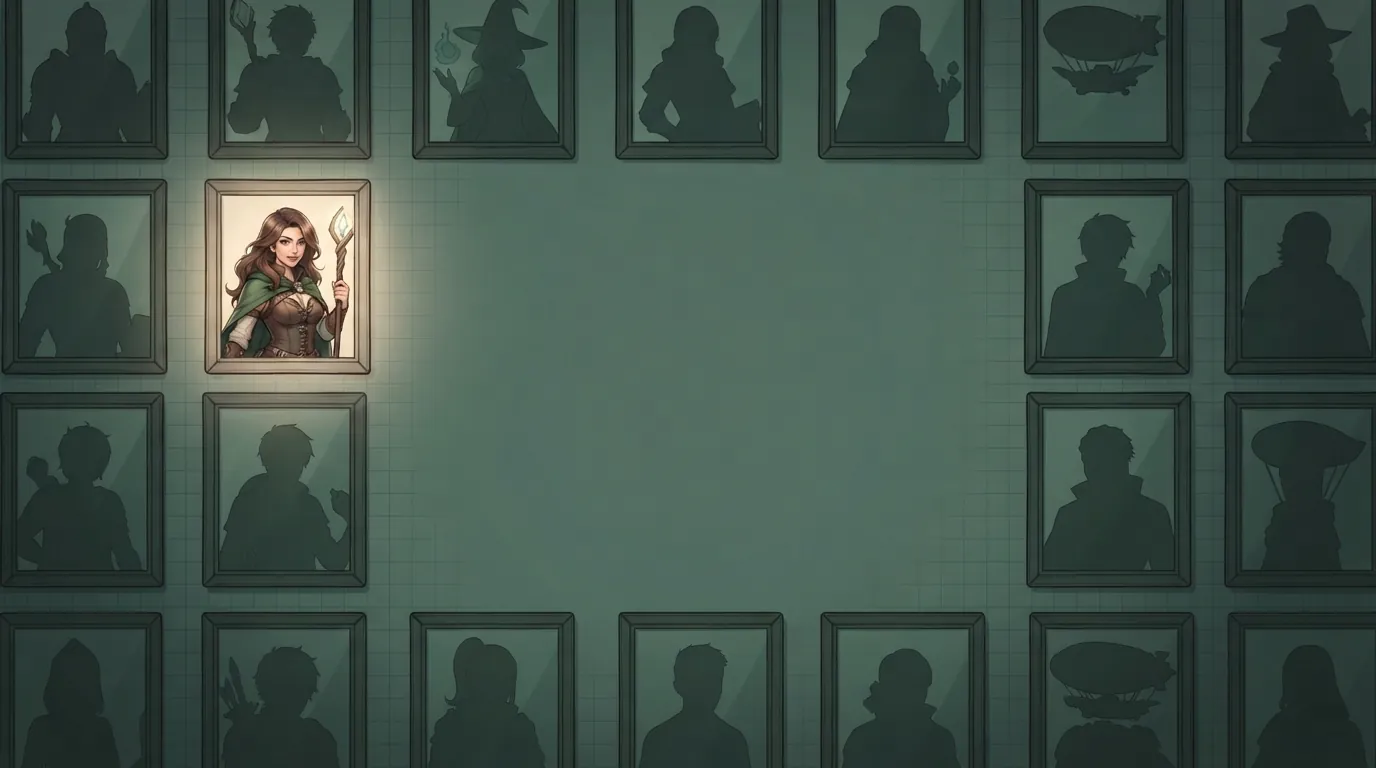
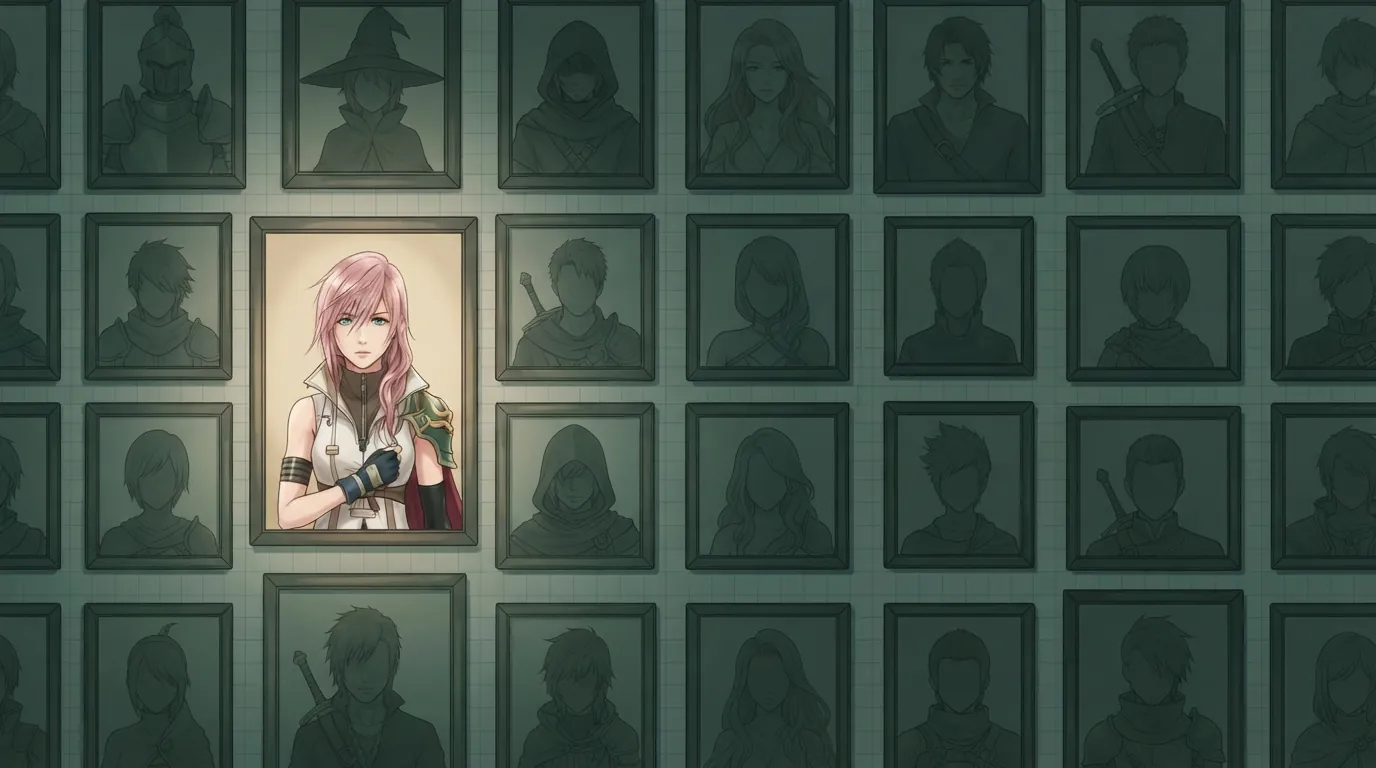
Feature set 155.
Tile artwork covers the whole card, and two of the pictures are rebuilt.

- The picture is full-bleed now, which flips the treatment: the card is dark and
  its copy is light. There is no veil strong enough to carry black text over a
  full-bleed photograph without becoming the wash this started as. The scrim
  deepens downward instead — 6% at the top, 94% under the text — so four sources
  with very different brightness all land near-black under the copy and one set
  of text colours works across the set.
- Text is bottom-aligned and the descriptions are one line each, because every
  line of copy is a line of artwork covered up. The empty art slot goes with them:
  it existed to hold a logo, and 88px reserved for nothing is 88px of picture
  hidden.
- The four accents revert to their original brighter values. They were darkened
  for a light card in set 153; the card is dark again.
- Triple Triad now shows the real cards. Nine level-10 FFVIII faces from the
  catalogue's own cards/{id}.webp, composited onto a generated bare table — a
  backdrop for the card game should be showing the cards the API serves. Each is
  dimmed to the felt sampled underneath it, which is what makes the paste sit in
  the picture rather than on top of it, and they are upscaled with NEAREST
  because smoothing PSX-era sprite art turns crisp pixels into mush.
- Kupodle is regenerated: Lightning is the revealed portrait, and every frame now
[…]

diff --git a/src/MoogleAPI.Web/wwwroot/games/index.html b/src/MoogleAPI.Web/wwwroot/games/index.html
@@ -61,44 +61,52 @@
     /* Each tile carries its own accent AND its own artwork through custom properties, so one
        rule styles four games and adding a fifth is two values and a link.
      *
-     * The veil is the whole trick, and it is shaped like the card rather than spread evenly. A
-     * flat veil strong enough to carry black body text also washed the picture out to a tint, so
-     * instead it is nearly clear across the art slot — 22%, enough to knock back the contrast of
-     * four pictures with wildly different brightness — and then closes hard to 93% right at the
-     * boundary where the text block begins, holding at 96% to the bottom. That reads as a card
-     * with a header image, which is what it is.
+     * The picture covers the whole card, which means the card is dark and its text is light —
+     * there is no veil strong enough to carry black copy over a full-bleed photograph without
+     * becoming the wash this replaced. The scrim instead deepens downward: 6% at the top, where
+     * the picture is the point, closing to 94% under the text block at the bottom. Four sources
+     * with wildly different brightness (Kupo Climb is a blue sky, Battle Square a night arena)
+     * all end up near-black under the copy, which is what lets one set of text colours work
+     * across the set.
      *
-     * The numbers are measured, not guessed. Composited over the real crops and sampled at both
-     * the darkest and the lightest pixel in each band of text: the description sits at 4.6:1
-     * against --muted, and the name at 5.6:1 against --text even if the tile is short enough to
-     * pull it up into the ramp. If the veil moves, re-measure rather than eyeballing it — a first
-     * attempt at this failed on all four tiles and looked fine.
+     * The text is bottom-aligned, so a taller tile grows its picture rather than its copy. That
+     * is also why the descriptions are one line each: every line of copy is a line of artwork
+     * covered up.
      *
-     * Default theme only. FFIV mode replaces the whole background with its window gradient
-     * further down, using the shorthand, which drops the image with it. */
+     * Measured, not guessed — composited over the real crops and sampled at the darkest and
+     * lightest pixel of each band of text. Worst case is the Battle Square footer link at 5.2:1;
+     * the name is 6.8:1 even when a wrapped description pushes it up. Re-measure if the scrim
+     * moves. Two earlier attempts at this looked fine and failed.
+     *
+     * background-color is dark rather than --surface so a tile with no artwork is still a dark
+     * card with readable light text, instead of light text on silver.
+     *
+     * Default theme only: FFIV mode replaces the background wholesale further down. */
     .tile {
       --tile: var(--accent);
       --tile-bg: none;
-      --veil: linear-gradient(180deg,
-        rgba(236, 239, 243, 0.22) 0%,
-        rgba(236, 239, 243, 0.26) 35%,
-        rgba(236, 239, 243, 0.93) 45%,
-        rgba(236, 239, 243, 0.96) 100%);
+      --scrim: linear-gradient(180deg,
+        rgba(9, 11, 15, 0.06) 0%,
+        rgba(9, 11, 15, 0.16) 34%,
+        rgba(9, 11, 15, 0.74) 50%,
+        rgba(9, 11, 15, 0.90) 62%,
+        rgba(9, 11, 15, 0.94) 100%);
       position: relative;
       display: flex;
       flex-direction: column;
+      min-height: 15.5rem;
       overflow: hidden;
       padding: 1.4rem 1.3rem 1.25rem;
-      background-color: var(--surface);
-      background-image: var(--veil), var(--tile-bg);
+      background-color: #12161c;
+      background-image: var(--scrim), var(--tile-bg);
       background-size: cover;
       background-position: center;
       background-repeat: no-repeat;
       border: 1px solid var(--border);
       border-radius: var(--radius);
-      color: inherit;
+      color: #ffffff;
       text-decoration: none;
-      box-shadow: 0 1px 1px rgb(20 22 26 / 0.03), 0 4px 12px rgb(20 22 26 / 0.04);
+      box-shadow: 0 1px 1px rgb(20 22 26 / 0.06), 0 6px 18px rgb(20 22 26 / 0.10);
       transition: border-color 0.18s, transform 0.18s, box-shadow 0.18s;
     }
     .tile::before {
@@ -107,15 +115,16 @@
       inset: 0 0 auto 0;
       height: 3px;
       background: var(--tile);
+      z-index: 2;
     }
-    /* The wash used to be the only thing carrying the game's colour at rest. The artwork does
-       that now, so this is a hover cue and nothing else — invisible until then, which also keeps
-       it out of the contrast budget the veil above was measured against. */
+    /* A hover cue and nothing else — the artwork carries the game's colour at rest, and keeping
+       this invisible until hover keeps it out of the contrast budget the scrim was measured
+       against. */
     .tile::after {
       content: '';
       position: absolute;
       inset: 0;
-      background: radial-gradient(120% 80% at 50% 0%, color-mix(in srgb, var(--tile) 16%, transparent) 0%, transparent 70%);
+      background: radial-gradient(120% 80% at 50% 0%, color-mix(in srgb, var(--tile) 20%, transparent) 0%, transparent 70%);
       pointer-events: none;
       opacity: 0;
       transition: opacity 0.18s;
@@ -123,7 +132,7 @@
     .tile:hover, .tile:focus-visible {
       border-color: var(--tile);
       transform: translateY(-3px);
-      box-shadow: 0 10px 26px rgb(20 22 26 / 0.13);
+      box-shadow: 0 12px 28px rgb(20 22 26 / 0.22);
     }
     .tile:hover::after, .tile:focus-visible::after { opacity: 0.55; }
 
@@ -144,7 +153,7 @@
       font-size: 1.55rem;
       font-weight: 700;
       letter-spacing: 0.06em;
-      color: var(--tile);
+      color: #ffffff;
       text-align: center;
       line-height: 1.15;
     }
@@ -154,9 +163,17 @@
       font-size: 1.15rem;
       font-weight: 700;
       letter-spacing: 0.04em;
+      margin-top: auto;
       margin-bottom: 0.35rem;
+      color: #ffffff;
+      text-shadow: 0 1px 3px rgba(0, 0, 0, 0.55);
     }
-    .tile-desc { font-size: 0.86rem; color: var(--muted); line-height: 1.55; flex: 1; }
+    .tile-desc {
+      font-size: 0.86rem;
+      color: #dfe4ea;
+      line-height: 1.55;
+      text-shadow: 0 1px 3px rgba(0, 0, 0, 0.5);
+    }
 
     .tile-foot {
       display: flex;
@@ -170,8 +187,8 @@
       font-size: 0.66rem;
       text-transform: uppercase;
       letter-spacing: 0.1em;
-      color: var(--muted);
-      border: 1px solid var(--border);
+      color: #c3ccd6;
+      border: 1px solid rgba(255, 255, 255, 0.32);
       border-radius: 999px;
       padding: 0.18rem 0.6rem;
     }
@@ -243,6 +260,9 @@
        text is white anyway; the hue survives on the bar above it. */
     .ff-mode .tile-wordmark { font-size: 0.85rem; line-height: 1.5; color: #ffffff; }
     .ff-mode .tile-go { color: #f8d030; }
+    .ff-mode .tile-name,
+    .ff-mode .tile-desc { text-shadow: 1px 1px 0 #0a1450; }
+    .ff-mode .tile-desc { color: #dfe8ff; }
     .ff-mode .tile-tag { border-color: rgba(223, 232, 255, 0.5); }
     .ff-mode .page-sub,
     .ff-mode .tile-desc,
@@ -268,14 +288,13 @@
     </p>
 
     <div class="tiles">
-      <a class="tile" href="/kupodle" style="--tile:#26684a; --tile-bg:url('/assets/backgrounds/tiles/kupodle.webp')">
+      <a class="tile" href="/kupodle" style="--tile:#7cc4a4; --tile-bg:url('/assets/backgrounds/tiles/kupodle.webp')">
         <div class="tile-art" data-wordmark="Kupodle">
           <img src="/assets/logos/kupodle.png" alt="" />
         </div>
         <div class="tile-name">Kupodle</div>
         <div class="tile-desc">
-          Guess the daily Final Fantasy character in six tries. Every guess narrows it by game,
-          role, race, hometown and release year.
+          Guess the daily character in six tries.
         </div>
         <div class="tile-foot">
           <span class="tile-tag">Daily · Puzzle</span>
@@ -283,14 +302,13 @@
         </div>
       </a>
 
-      <a class="tile" href="/triple-triad" style="--tile:#20537a; --tile-bg:url('/assets/backgrounds/tiles/triple-triad.webp')">
+      <a class="tile" href="/triple-triad" style="--tile:#5b9bd5; --tile-bg:url('/assets/backgrounds/tiles/triple-triad.webp')">
         <div class="tile-art" data-wordmark="Triple Triad">
           <img src="/assets/logos/triple-triad.png" alt="" />
         </div>
         <div class="tile-name">Triple Triad</div>
         <div class="tile-desc">
-          The Final Fantasy VIII card game, with all 110 authentic cards and their real corner
-          values. Three-by-three, capture by the numbers.
+          All 110 authentic FFVIII cards, three by three.
         </div>
         <div class="tile-foot">
           <span class="tile-tag">Cards · Versus</span>
@@ -298,14 +316,13 @@
         </div>
       </a>
 
-      <a class="tile" href="/kupo-climb" style="--tile:#75481a; --tile-bg:url('/assets/backgrounds/tiles/kupo-climb.webp')">
+      <a class="tile" href="/kupo-climb" style="--tile:#c98b4b; --tile-bg:url('/assets/backgrounds/tiles/kupo-climb.webp')">
         <div class="tile-art" data-wordmark="Kupo Climb">
           <img src="/assets/logos/kupo-climb.png" alt="" />
         </div>
         <div class="tile-name">Kupo Climb</div>
         <div class="tile-desc">
-          Take one monster up through the series, a game per rung. Beat all three battles and it
-          evolves into that game's version of itself.
+          Take one monster up through the series, a game per rung.
         </div>
         <div class="tile-foot">
           <span class="tile-tag">Daily · Battle</span>
@@ -313,14 +330,13 @@
         </div>
       </a>
 
-      <a class="tile" href="/battle-square" style="--tile:#5e357d; --tile-bg:url('/assets/backgrounds/tiles/battle-square.webp')">
+      <a class="tile" href="/battle-square" style="--tile:#b07cc6; --tile-bg:url('/assets/backgrounds/tiles/battle-square.webp')">
         <div class="tile-art" data-wordmark="Battle Square">
           <img src="/assets/logos/battle-square.png" alt="" />
         </div>
         <div class="tile-name">Battle Square</div>
         <div class="tile-desc">
-          The Gold Saucer's arena, opened to the whole series. One character against eight
-          straight waves — and the slots take something away between each.
+          One character against eight straight waves of monsters.
         </div>
         <div class="tile-foot">
           <span class="tile-tag">Daily · Arena</span>
@@ -338,10 +354,10 @@
     // Logos are dropped in per game and may not exist yet. What replaces a missing one depends
     // on whether the tile has artwork behind it:
     //
-    //   with artwork    nothing. The slot becomes a window onto the picture, and the game's name
-    //                   is already the line directly beneath it — printing a wordmark here put
-    //                   the same word on the card twice, which is what every tile did while
-    //                   /assets/logos/ did not exist.
+    //   with artwork    the slot goes. The picture covers the whole card, so 88px of reserved
+    //                   space is 88px of artwork hidden, and the game's name is already the line
+    //                   at the bottom — printing a wordmark here put the same word on the card
+    //                   twice, which is what every tile did while /assets/logos/ did not exist.
     //   without         the name in the display face, as before, so a bare tile is not blank.
     for (const slot of document.querySelectorAll('.tile-art')) {
       const img = slot.querySelector('img');
@@ -352,7 +368,7 @@
 
         const tile = slot.closest('.tile');
         const art = tile && getComputedStyle(tile).getPropertyValue('--tile-bg').trim();
-        if (art && art !== 'none') return;
+        if (art && art !== 'none') { slot.hidden = true; return; }
 
         const mark = document.createElement('div');
         mark.className = 'tile-wordmark';

diff --git a/src/MoogleAPI.Web/wwwroot/assets/backgrounds/README.md b/src/MoogleAPI.Web/wwwroot/assets/backgrounds/README.md
@@ -46,11 +46,18 @@ that loaded four of those would be ~25 MB to draw four cards. The four crops tog
 Rebuild them from the originals rather than exporting by hand, and **re-measure if the veil
 changes** — a card is black body text over a picture, which is the easy way to make one unreadable.
 
-The veil in `games/index.html` is shaped like the card rather than spread evenly: about 22% across
-the art slot, so the picture actually reads, then closing hard to 93% at the boundary where the
-text block starts and holding at 96% to the bottom. Against the real crops that leaves the
-description at 4.6:1 against `--muted` and the name at 5.6:1 against `--text`. Two earlier attempts
-looked fine and failed the measurement, so do not trust your eye on this one.
+The artwork **covers the whole card**, which means the card is dark and its copy is light: there
+is no veil strong enough to carry black text over a full-bleed picture without becoming the wash
+that idea started as. The scrim in `games/index.html` deepens downward instead — 6% at the top,
+94% under the text block at the bottom — so four sources with wildly different brightness all end
+up near-black under the copy, which is what lets one set of text colours work across the set.
+
+Against the real crops that leaves the name at 10.9:1 (6.8:1 if a wrapped description pushes it
+up), the description at 12.3:1 and the footer link at 5.2:1 in the worst case. Three earlier
+attempts looked fine and failed the measurement, so do not trust your eye on this one.
+
+The tile copy is one line per game on purpose: the text is bottom-aligned, so every line of copy
+is a line of artwork covered up.
 
 FFIV mode replaces the tile background wholesale with its window gradient, so none of this applies
 there.
@@ -59,8 +66,12 @@ there.
 
 - `battle-square.webp` — Cloud mid-swing in the arena. 2399 × 1350.
 - `kupo-climb.webp` — the roster lined up on the plain. 2738 × 1536.
-- `kupodle.webp` — a wall of framed portraits, all silhouetted but one. 1376 × 768.
-- `triple-triad.webp` — a felt table mid-game under a lamp. 1376 × 768.
+- `kupodle.webp` — a wall of framed portraits, all silhouetted but Lightning. 1376 × 768.
+- `triple-triad.webp` — a felt table mid-game under a lamp. 1376 × 768. **The cards on it are
+  the catalogue's own `cards/{id}.webp` art**, composited onto a generated bare table rather than
+  drawn by the model: a backdrop for the card game should be showing the cards the API serves.
+  Each is dimmed to match the felt sampled underneath it, which is what makes the paste sit in
+  the picture instead of on top of it.
 
 The last two are **below the 2400-wide spec** and deliberately not upscaled — that is the size they
 were generated at, and inventing pixels would cost weight for nothing under a veil this dark. They
